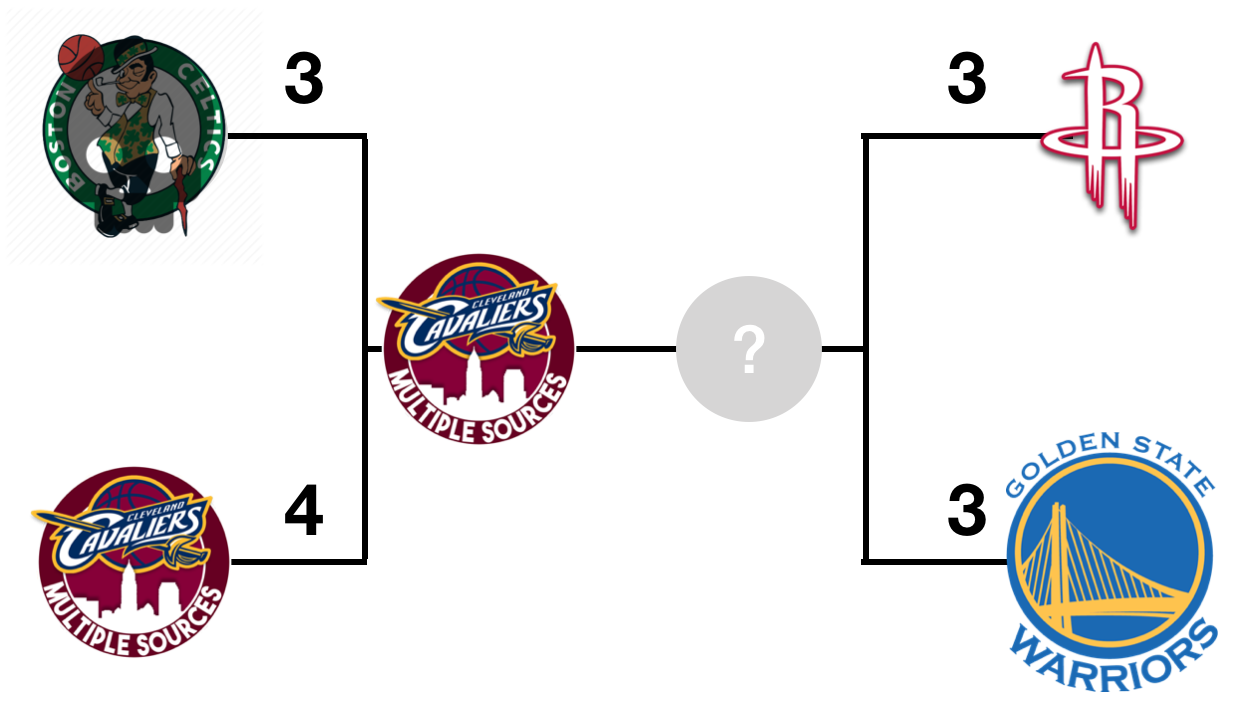
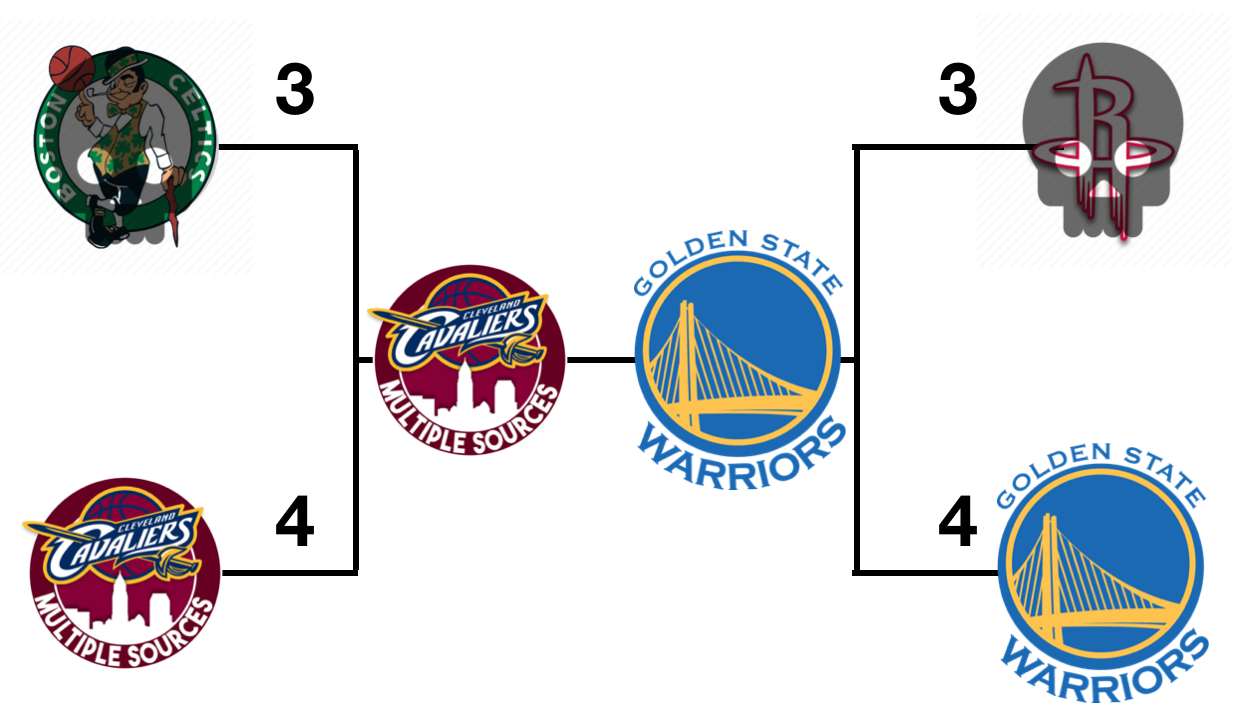
ss

diff --git a/script/app.js b/script/app.js
@@ -83,6 +83,12 @@ app.controller('myCtrl', function($scope) {
         roadTeam: CAV,
         roadScore: 87,
         date: '5-28'
+    }, {
+        homeTeam: ROC,
+        homeScore: 92,
+        roadTeam: WAR,
+        roadScore: 101,
+        date: '5-29'
     }];
 
     $scope.data = [{
@@ -138,7 +144,7 @@ app.controller('myCtrl', function($scope) {
         team: CEL
     }];
 
-    $scope.lostTeam = [CEL];
+    $scope.lostTeam = [CEL, ROC];
 
     $scope.getTotalAmount = function () {
     	return $scope.data.length * 10.0;
